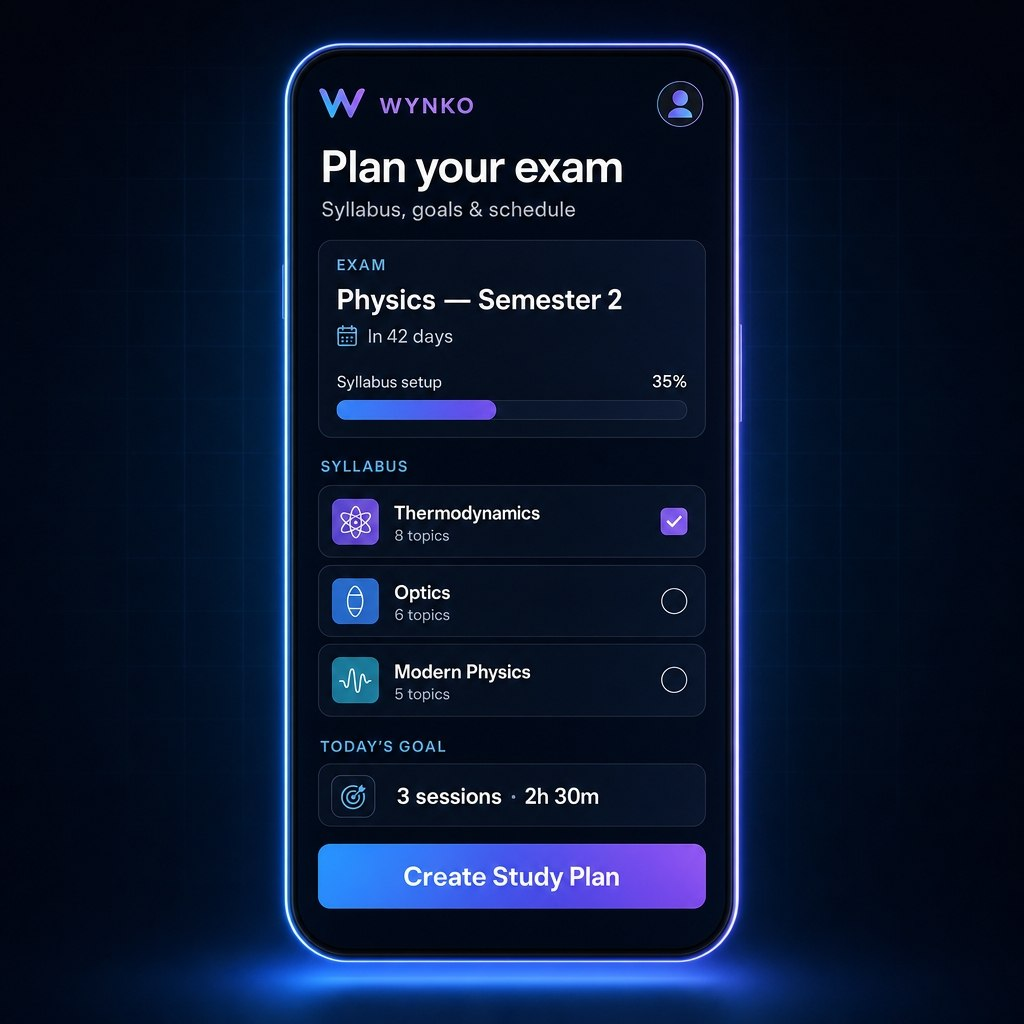
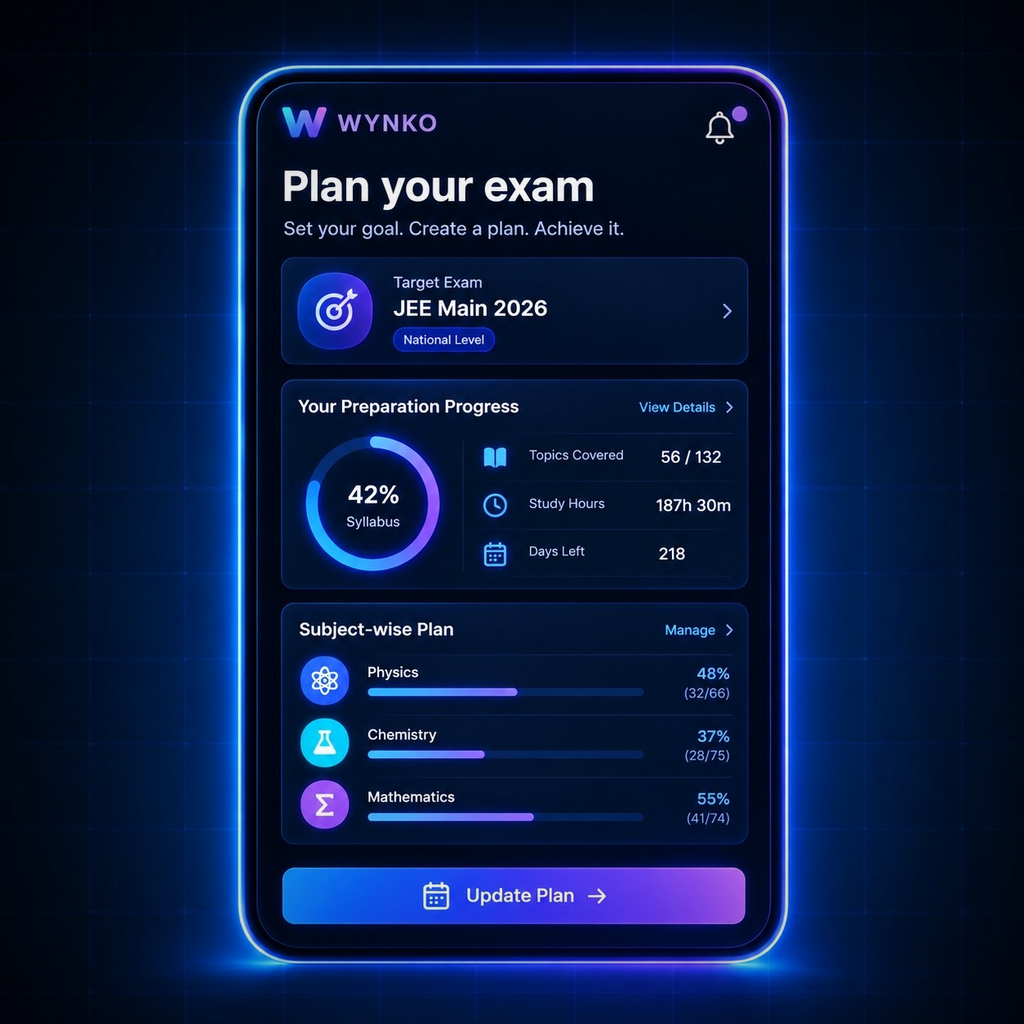
Your Day: replace card 03 (Revise) with Track, update card 01 art + heading
- Card 03: Revise -> Track, new image, updated copy
- Card 01: swapped in updated 'Plan your exam' artwork
- Heading: 'From your first plan to seeing your progress.'
- Rebased on latest iop (timer-mode friction-reduction work already
  landed upstream in be2edb5/99adecc/8679d85; not duplicated here)

diff --git a/product.html b/product.html
@@ -963,7 +963,7 @@ footer{ border-top:1px solid var(--border); padding:60px 0 40px; background:rgba
   <div class="wrap">
     <div class="section-head reveal">
       <span class="eyebrow">Your Day</span>
-      <h2 class="h-lg">From your first session to your final revision.</h2>
+      <h2 class="h-lg">From your first plan to seeing your progress.</h2>
       <p class="lead">Wynko keeps your study day structured, focused, and on track — without making you manage everything yourself.</p>
     </div>
 
@@ -987,9 +987,9 @@ footer{ border-top:1px solid var(--border); padding:60px 0 40px; background:rgba
       <div class="f-card reveal">
         <div class="f-visual">
           <span class="f-num mono">03</span>
-          <img class="f-visual-img" src="assets/day-03-revise.png" alt="Revision due — spaced repetition, automatically" />
+          <img class="f-visual-img" src="assets/day-03-track.png" alt="Track your study progress — sessions, streaks, and consistency" />
         </div>
-        <div class="body"><h4>Revise</h4><p>Wynko brings topics back when they're due.</p></div>
+        <div class="body"><h4>Track</h4><p>Track your study sessions and build consistency.</p></div>
       </div>
 
       <div class="f-card reveal">
